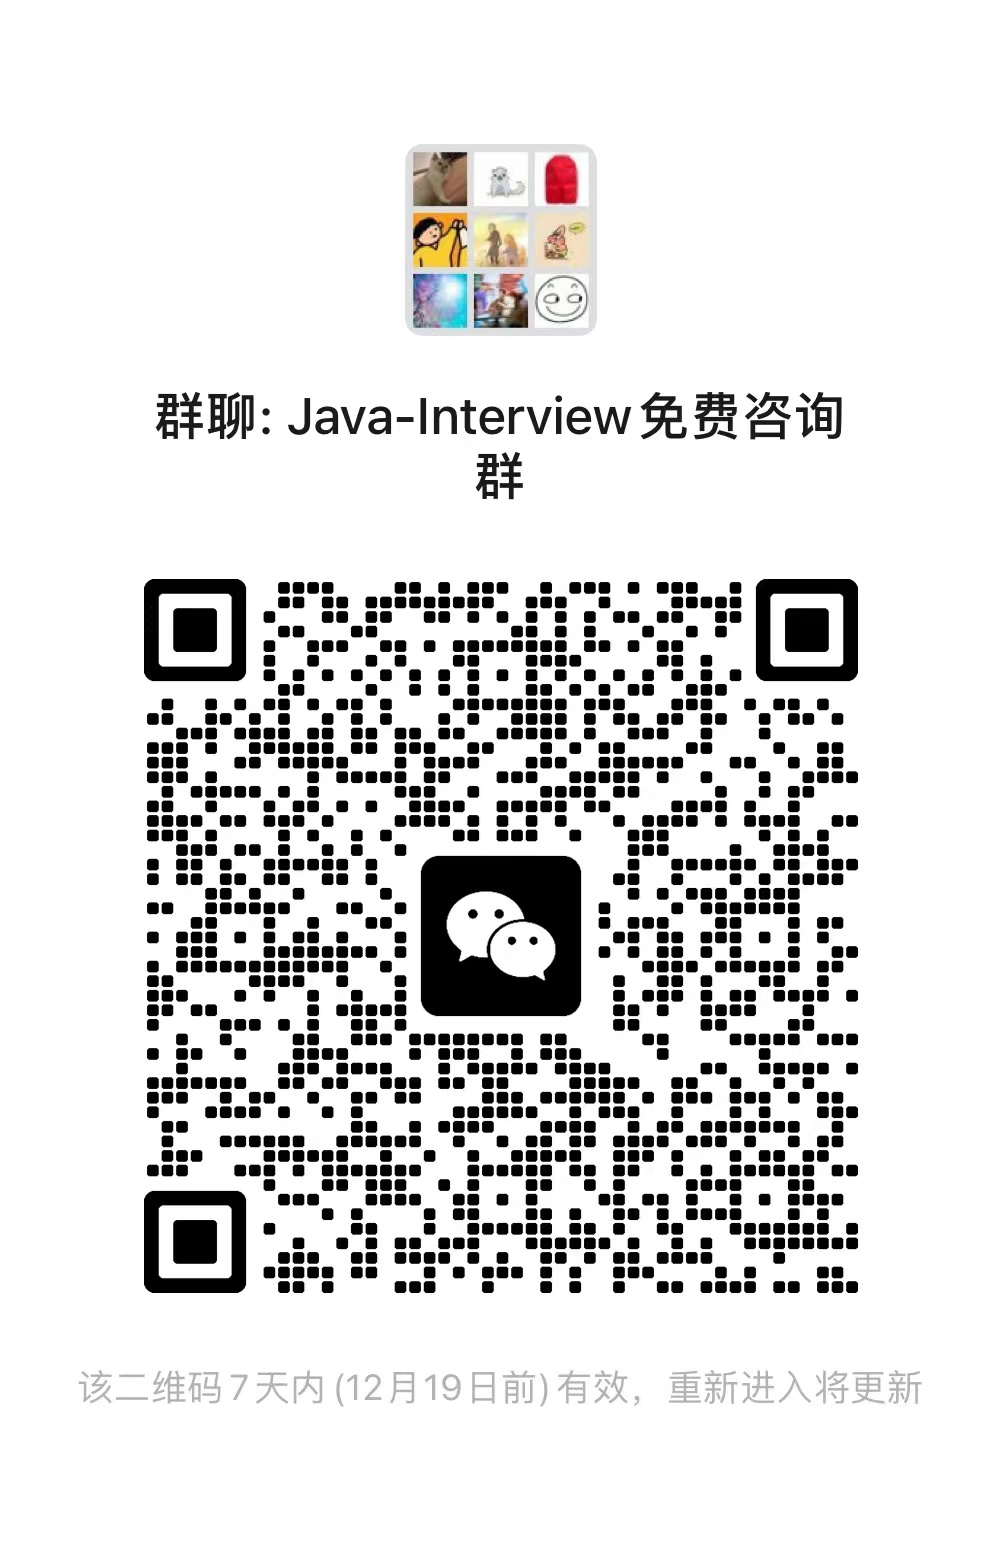
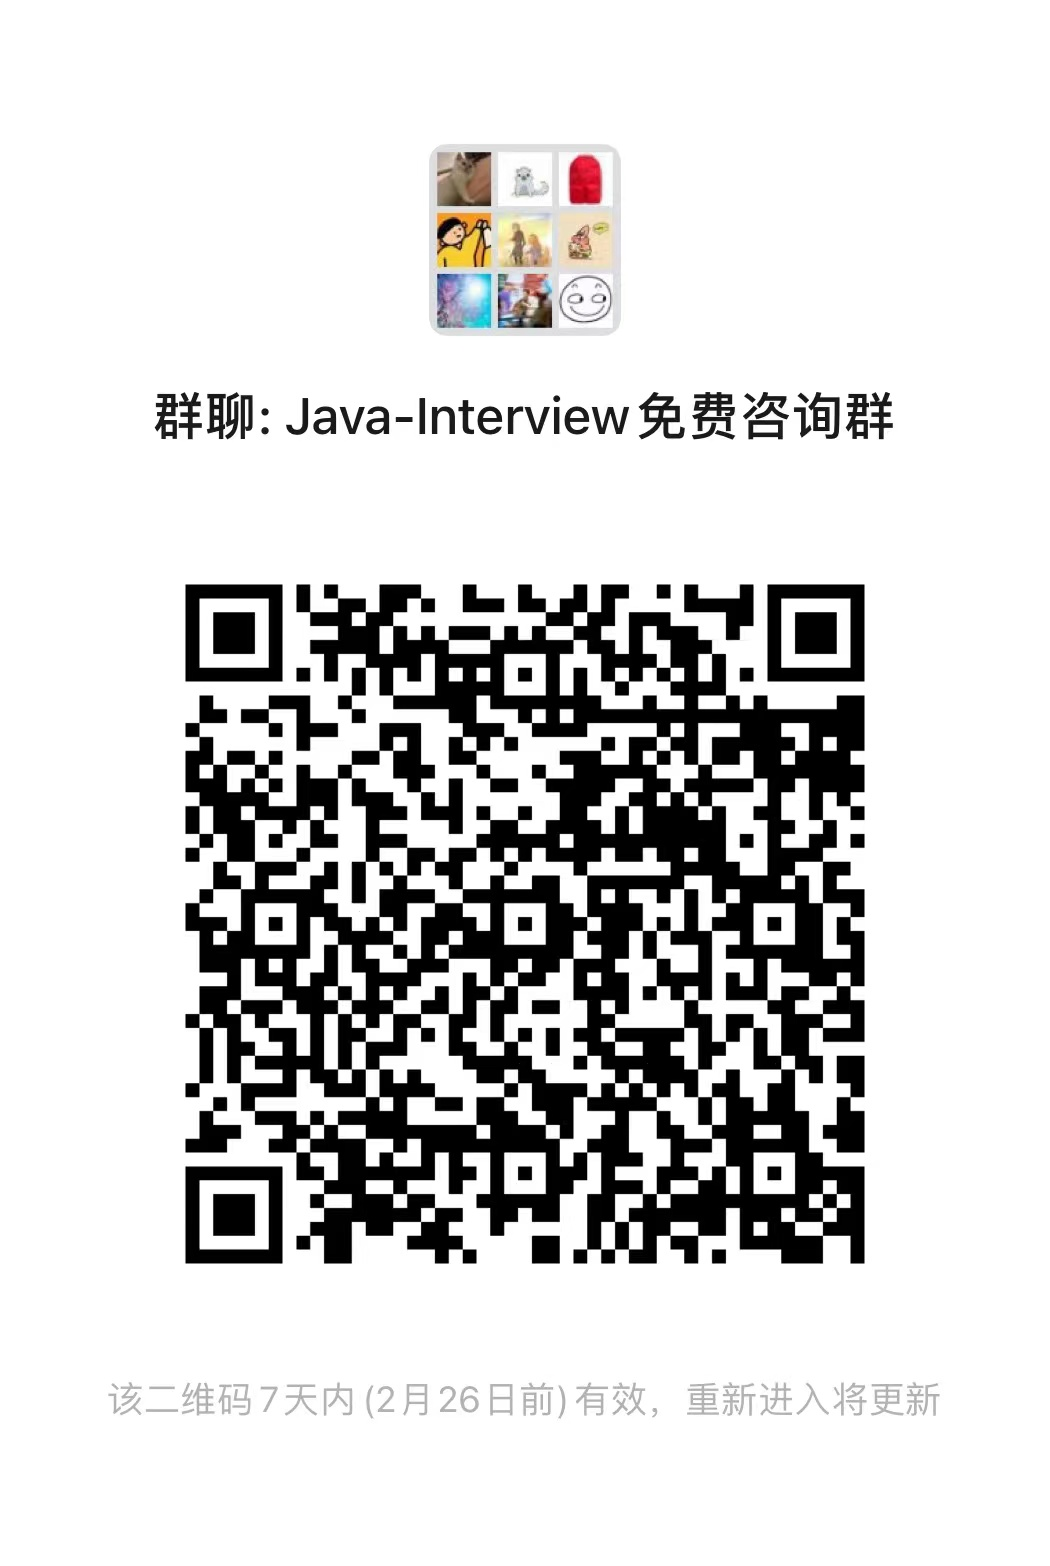
限流

diff --git a/README.md b/README.md
@@ -1,3 +1,12 @@
+本项目将永久持续维护，有兴趣的伙伴建议微信扫码入群，我将在一段时间内免费在群内为大家提供（本人前快手高级开发，8年Java工作经验，大厂小厂C端B端都呆过）：
+1. Java相关面试问题咨询
+2. 国内大厂内推机会
+3. 一对一语音简历优化、模拟面试
+
+<img src="https://github.com/xbox1994/Java-Interview/raw/master/images/wxg.jpg"  width="500" />
+
+----------------------
+
 本项目是本人参加BAT等其他公司电话、现场面试之后总结出来的针对Java面试的知识点或真题，每个点或题目都是在面试中被问过的。
 
 除开知识点，一定要准备好以下套路：  
@@ -46,6 +55,7 @@
 * [数组-归并排序-合并有序数组](https://github.com/xbox1994/Java-Interview/blob/master/MD/算法-数组-归并排序-合并有序数组.md)
 * [链表-链表反转-链表相加](https://github.com/xbox1994/Java-Interview/blob/master/MD/算法-链表-反转链表-链表相加.md)
 * [链表-双指针-删除倒数第n个](https://github.com/xbox1994/Java-Interview/blob/master/MD/算法-链表-双指针-删除倒数第n个.md)
+* [链表-双指针-重排链表](https://leetcode.cn/problems/reorder-list/description/)
 * [二叉树-递归-二叉树反转](https://github.com/xbox1994/Java-Interview/blob/master/MD/算法-二叉树-递归-二叉树反转.md)
 * [二叉树-递归-多叉树中最长的连续序列](https://github.com/xbox1994/Java-Interview/blob/master/MD/算法-二叉树-多叉树中最长的连续序列.md)
 * [动态规划-连续子数组最大和](https://github.com/xbox1994/Java-Interview/blob/master/MD/算法-动态规划-连续子数组最大和.md)

diff --git a/MD/数据库-MySQL.md b/MD/数据库-MySQL.md
@@ -94,6 +94,14 @@ B与B+区别:
 2. 离散度大（不同的数据多）的列使用索引才有查询效率提升
 3. 索引字段越小越好，因为数据库按页存储的，如果每次查询IO读取的页越少查询效率越高
 
+### count1/count*/count字段 的区别
+
+1. count(*)包括了所有的列，相当于行数，在统计结果的时候，不会忽略列值为NULL
+2. count(1)包括了忽略所有列，用1代表代码行，在统计结果的时候，不会忽略列值为NULL 
+3. count(列名)只包括列名那一列，在统计结果的时候，会忽略列值为空（这里的空不是只空字符串或者0，而是表示null）的计数，即某个字段值为NULL时，不统计。
+
+count(*),自动会优化指定到那一个字段。所以没必要去count(1)，用count(*)，sql会帮你完成优化的 因此：count(1)和count(*)基本没有差别！
+
 ## 分区分库分表
 分区：把一张表的数据分成N个区块，在逻辑上看最终只是一张表，但底层是由N个物理区块组成的，通过将不同数据按一定规则放到不同的区块中提升表的查询效率。
 
